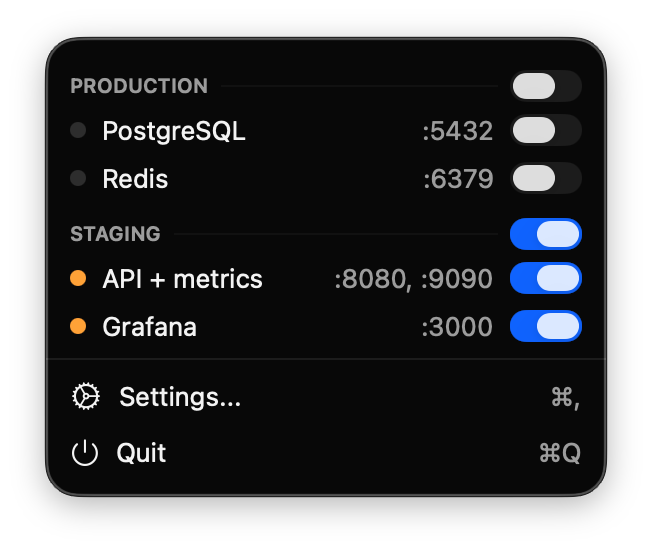
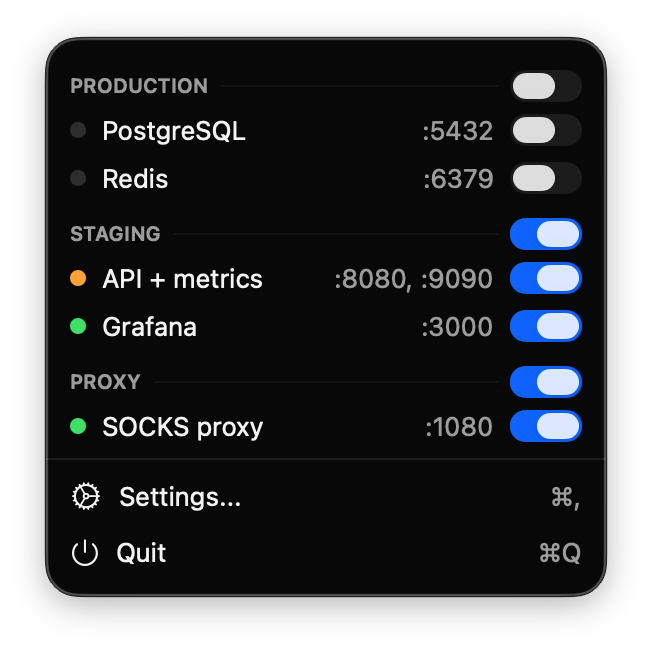
Add SOCKS proxy (dynamic -D forwarding) per port mapping
A port mapping can now be a Local Forward (-L) or a SOCKS Proxy (-D), chosen
with a per-mapping picker; the two can be mixed on a single ssh process.

- PortMapping gains a `forward` type; configs without it decode as .local
  (backward compatible).
- startSSHProcess and the displayed ssh command emit -D host:port for SOCKS
  mappings; the local-port cleanup regex matches -D bindings too.
- The detail view's Usage section offers the proxy address plus copy-ready
  socks5h:// and socks5:// URLs; the README documents socks5h (remote DNS)
  vs socks5 and lists SOCKS as a feature.
- Refresh the README screenshots, including a dedicated SOCKS shot.

Addresses #1.

diff --git a/SSHTunnelManager/SSHTunnelManager/Views/MainWindow/TunnelDetailView.swift b/SSHTunnelManager/SSHTunnelManager/Views/MainWindow/TunnelDetailView.swift
@@ -144,7 +144,7 @@ struct TunnelDetailView: View {
             } header: {
                 Text("Port Forwarding")
             } footer: {
-                Text("Each mapping adds a -L flag to the SSH command.")
+                Text("Each mapping adds a -L (local forward) or -D (SOCKS proxy) flag to the SSH command.")
             }
 
             Section {
@@ -156,10 +156,16 @@ struct TunnelDetailView: View {
             if status == .connected {
                 Section {
                     ForEach(editedTunnel.portMappings) { mapping in
-                        UsageRow(
-                            label: ":\(mapping.localPort)",
-                            value: "http://\(mapping.localHost):\(mapping.localPort)"
-                        )
+                        if mapping.forward == .dynamic {
+                            UsageRow(label: "Proxy", value: "\(mapping.localHost):\(mapping.localPort)")
+                            UsageRow(label: "socks5h", value: "socks5h://\(mapping.localHost):\(mapping.localPort)")
+                            UsageRow(label: "socks5", value: "socks5://\(mapping.localHost):\(mapping.localPort)")
+                        } else {
+                            UsageRow(
+                                label: ":\(mapping.localPort)",
+                                value: "http://\(mapping.localHost):\(mapping.localPort)"
+                            )
+                        }
                     }
                 } header: {
                     Text("Usage")
@@ -217,7 +223,12 @@ struct TunnelDetailView: View {
     private func sshCommand(for tunnel: Tunnel) -> String {
         var cmd = "ssh -N"
         for mapping in tunnel.portMappings {
-            cmd += " -L \(mapping.localHost):\(mapping.localPort):\(mapping.remoteHost):\(mapping.remotePort)"
+            switch mapping.forward {
+            case .local:
+                cmd += " -L \(mapping.localHost):\(mapping.localPort):\(mapping.remoteHost):\(mapping.remotePort)"
+            case .dynamic:
+                cmd += " -D \(mapping.localHost):\(mapping.localPort)"
+            }
         }
         // Neutralize login-oriented alias directives so this command is safe to
         // copy/paste for a forward (mirrors how the app launches the tunnel).
@@ -247,7 +258,14 @@ struct PortMappingEditor: View {
 
     var body: some View {
         VStack(alignment: .leading, spacing: 8) {
-            LabeledContent("Local") {
+            Picker("Type", selection: $mapping.forward) {
+                Text("Local Forward").tag(ForwardType.local)
+                Text("SOCKS Proxy").tag(ForwardType.dynamic)
+            }
+            .pickerStyle(.segmented)
+            .labelsHidden()
+
+            LabeledContent(mapping.forward == .dynamic ? "Listen" : "Local") {
                 HStack(spacing: 4) {
                     TextField("Host", text: $mapping.localHost)
                         .textFieldStyle(.roundedBorder)
@@ -263,20 +281,26 @@ struct PortMappingEditor: View {
                 }
             }
 
-            LabeledContent("Remote") {
-                HStack(spacing: 4) {
-                    TextField("Host", text: $mapping.remoteHost)
-                        .textFieldStyle(.roundedBorder)
-                        .labelsHidden()
-                        .focused($focusedField, equals: .mappingRemoteHost(mapping.id))
-                    Text(":")
-                        .foregroundStyle(.secondary)
-                    TextField("", value: $mapping.remotePort, format: .number.grouping(.never))
-                        .textFieldStyle(.roundedBorder)
-                        .frame(width: 70)
-                        .labelsHidden()
-                        .focused($focusedField, equals: .mappingRemotePort(mapping.id))
+            if mapping.forward == .local {
+                LabeledContent("Remote") {
+                    HStack(spacing: 4) {
+                        TextField("Host", text: $mapping.remoteHost)
+                            .textFieldStyle(.roundedBorder)
+                            .labelsHidden()
+                            .focused($focusedField, equals: .mappingRemoteHost(mapping.id))
+                        Text(":")
+                            .foregroundStyle(.secondary)
+                        TextField("", value: $mapping.remotePort, format: .number.grouping(.never))
+                            .textFieldStyle(.roundedBorder)
+                            .frame(width: 70)
+                            .labelsHidden()
+                            .focused($focusedField, equals: .mappingRemotePort(mapping.id))
+                    }
                 }
+            } else {
+                Text("SOCKS5 proxy — point your app or system proxy at this address.")
+                    .font(.caption)
+                    .foregroundStyle(.secondary)
             }
 
             if canRemove {

diff --git a/SSHTunnelManager/SSHTunnelManager/Models/Tunnel.swift b/SSHTunnelManager/SSHTunnelManager/Models/Tunnel.swift
@@ -1,7 +1,14 @@
 import Foundation
 
+/// How a port mapping forwards traffic.
+enum ForwardType: String, Codable, Hashable {
+    case local      // ssh -L : a fixed local→remote port forward
+    case dynamic    // ssh -D : a SOCKS proxy (destinations chosen per request)
+}
+
 struct PortMapping: Identifiable, Codable, Hashable {
     var id: UUID
+    var forward: ForwardType
     var localHost: String
     var localPort: Int
     var remoteHost: String
@@ -9,16 +16,33 @@ struct PortMapping: Identifiable, Codable, Hashable {
 
     init(
         id: UUID = UUID(),
+        forward: ForwardType = .local,
         localHost: String = "127.0.0.1",
         localPort: Int = 8080,
         remoteHost: String = "127.0.0.1",
         remotePort: Int = 8080
     ) {
         self.id = id
+        self.forward = forward
         self.localHost = localHost
         self.localPort = localPort
         self.remoteHost = remoteHost
         self.remotePort = remotePort
+    }
+
+    enum CodingKeys: String, CodingKey {
+        case id, forward, localHost, localPort, remoteHost, remotePort
+    }
+
+    // Custom decoder so older configs without `forward` default to .local.
+    init(from decoder: Decoder) throws {
+        let c = try decoder.container(keyedBy: CodingKeys.self)
+        id = try c.decode(UUID.self, forKey: .id)
+        forward = try c.decodeIfPresent(ForwardType.self, forKey: .forward) ?? .local
+        localHost = try c.decode(String.self, forKey: .localHost)
+        localPort = try c.decode(Int.self, forKey: .localPort)
+        remoteHost = try c.decode(String.self, forKey: .remoteHost)
+        remotePort = try c.decode(Int.self, forKey: .remotePort)
     }
 }
 
@@ -109,7 +133,9 @@ struct Tunnel: Identifiable, Codable, Hashable {
     }
 
     var mappingsSummary: String {
-        portMappings.map { ":\($0.localPort) → :\($0.remotePort)" }.joined(separator: ", ")
+        portMappings.map { m in
+            m.forward == .dynamic ? "SOCKS :\(m.localPort)" : ":\(m.localPort) → :\(m.remotePort)"
+        }.joined(separator: ", ")
     }
 
     var localPortsSummary: String {

diff --git a/SSHTunnelManager/SSHTunnelManager/Services/TunnelManager.swift b/SSHTunnelManager/SSHTunnelManager/Services/TunnelManager.swift
@@ -33,7 +33,7 @@ private func killSSHProcessesForTunnel(_ tunnel: Tunnel) {
 private func findAndKillSSHProcesses(localPort: Int) {
     let task = Process()
     task.executableURL = URL(fileURLWithPath: "/usr/bin/pkill")
-    task.arguments = ["-f", "ssh.*-L.*:\(localPort):"]
+    task.arguments = ["-f", "ssh.*-[LD].*:\(localPort)[: ]"]
     task.standardOutput = FileHandle.nullDevice
     task.standardError = FileHandle.nullDevice
     try? task.run()
@@ -209,12 +209,20 @@ class TunnelManager {
         let process = Process()
         process.executableURL = URL(fileURLWithPath: "/usr/bin/ssh")
 
-        // One -L flag per port mapping, all carried by a single ssh process.
+        // One forward flag per port mapping — -L for a local forward, -D for a
+        // SOCKS proxy — all carried by a single ssh process.
         var arguments = ["-N"]
         for mapping in tunnel.portMappings {
-            arguments.append(contentsOf: [
-                "-L", "\(mapping.localHost):\(mapping.localPort):\(mapping.remoteHost):\(mapping.remotePort)"
-            ])
+            switch mapping.forward {
+            case .local:
+                arguments.append(contentsOf: [
+                    "-L", "\(mapping.localHost):\(mapping.localPort):\(mapping.remoteHost):\(mapping.remotePort)"
+                ])
+            case .dynamic:
+                arguments.append(contentsOf: [
+                    "-D", "\(mapping.localHost):\(mapping.localPort)"
+                ])
+            }
         }
 
         // Connection options. In host mode always pass -p (and -i if set); in

diff --git a/README.md b/README.md
@@ -3,12 +3,16 @@
 A lightweight macOS menu bar app for managing SSH port forwards. No electron, no bloat — just native Swift and AppKit.
 
 <p align="center">
-  <img src=".github/menu.png" width="280" alt="Menu bar with grouped tunnels and per-group toggles">
-  &nbsp;&nbsp;&nbsp;
-  <img src=".github/group.png" width="280" alt="Configuring a group divider">
+  <img src=".github/menu.png" width="30%" alt="Menu bar with grouped tunnels and per-group toggles">
 </p>
 <p align="center">
-  <img src=".github/settings.png" width="560" alt="Tunnel settings with multiple port forwards">
+  <img src=".github/settings.png" width="50%" alt="Tunnel settings with a local port forward">
+</p>
+<p align="center">
+  <img src=".github/socks5.png" width="50%" alt="SOCKS proxy mapping with copy-ready socks5h and socks5 URLs">
+</p>
+<p align="center">
+  <img src=".github/group.png" width="80%" alt="Grouped tunnels with a divider in the settings sidebar">
 </p>
 
 ## Why?
@@ -16,7 +20,7 @@ A lightweight macOS menu bar app for managing SSH port forwards. No electron, no
 If you work with remote servers, you constantly need SSH tunnels:
 - Database access (`localhost:5432` → production PostgreSQL)
 - Internal services (`localhost:8080` → staging API)
-- Development proxies
+- A SOCKS proxy into a private network (`ssh -D`)
 
 Running `ssh -N -L ...` in terminal works, but:
 - You forget which tunnels are running
@@ -29,6 +33,7 @@ This app solves that. Configure once, connect with one click.
 
 - **Menu bar app** — always accessible, no dock icon clutter
 - **Multiple port forwards per tunnel** — one SSH connection, many `-L` mappings
+- **SOCKS proxy** — per-mapping dynamic forwarding (`ssh -D`), mixable with local forwards
 - **Group tunnels** — organize them with dividers and flip a whole group with one toggle
 - **Auto-reconnect** — tunnels automatically reconnect when they drop
 - **SSH config aliases** — reuse hosts from your `~/.ssh/config`
@@ -59,7 +64,7 @@ On first launch, macOS will warn about unsigned app:
 ## Build from source
 
 ```bash
-git clone https://github.com/user/ssh-tunnel-manager.git
+git clone https://github.com/0fuz/ssh-tunnel-manager.git
 cd ssh-tunnel-manager/SSHTunnelManager
 xcodebuild -scheme SSHTunnelManager -configuration Release
 ```
@@ -73,6 +78,16 @@ Requires Xcode 15+ and macOS 14+.
 3. Toggle tunnels on/off from the menu bar
 
 Config is stored in `~/Library/Application Support/SSHTunnelManager/tunnels.json`.
+
+### SOCKS proxy
+
+Set a port mapping's type to **SOCKS** for a dynamic proxy (`ssh -D`). Point your browser, system proxy, or a tool at `127.0.0.1:<port>`. When the tunnel is connected, the detail view's **Usage** section has the address and `socks5h://` / `socks5://` URLs ready to copy.
+
+Use `socks5h://` when DNS should be resolved **on the server** — e.g. to reach internal hostnames behind it; `socks5://` resolves DNS locally:
+
+```bash
+curl -x socks5h://127.0.0.1:1080 http://internal-host:8080
+```
 
 ## License
 